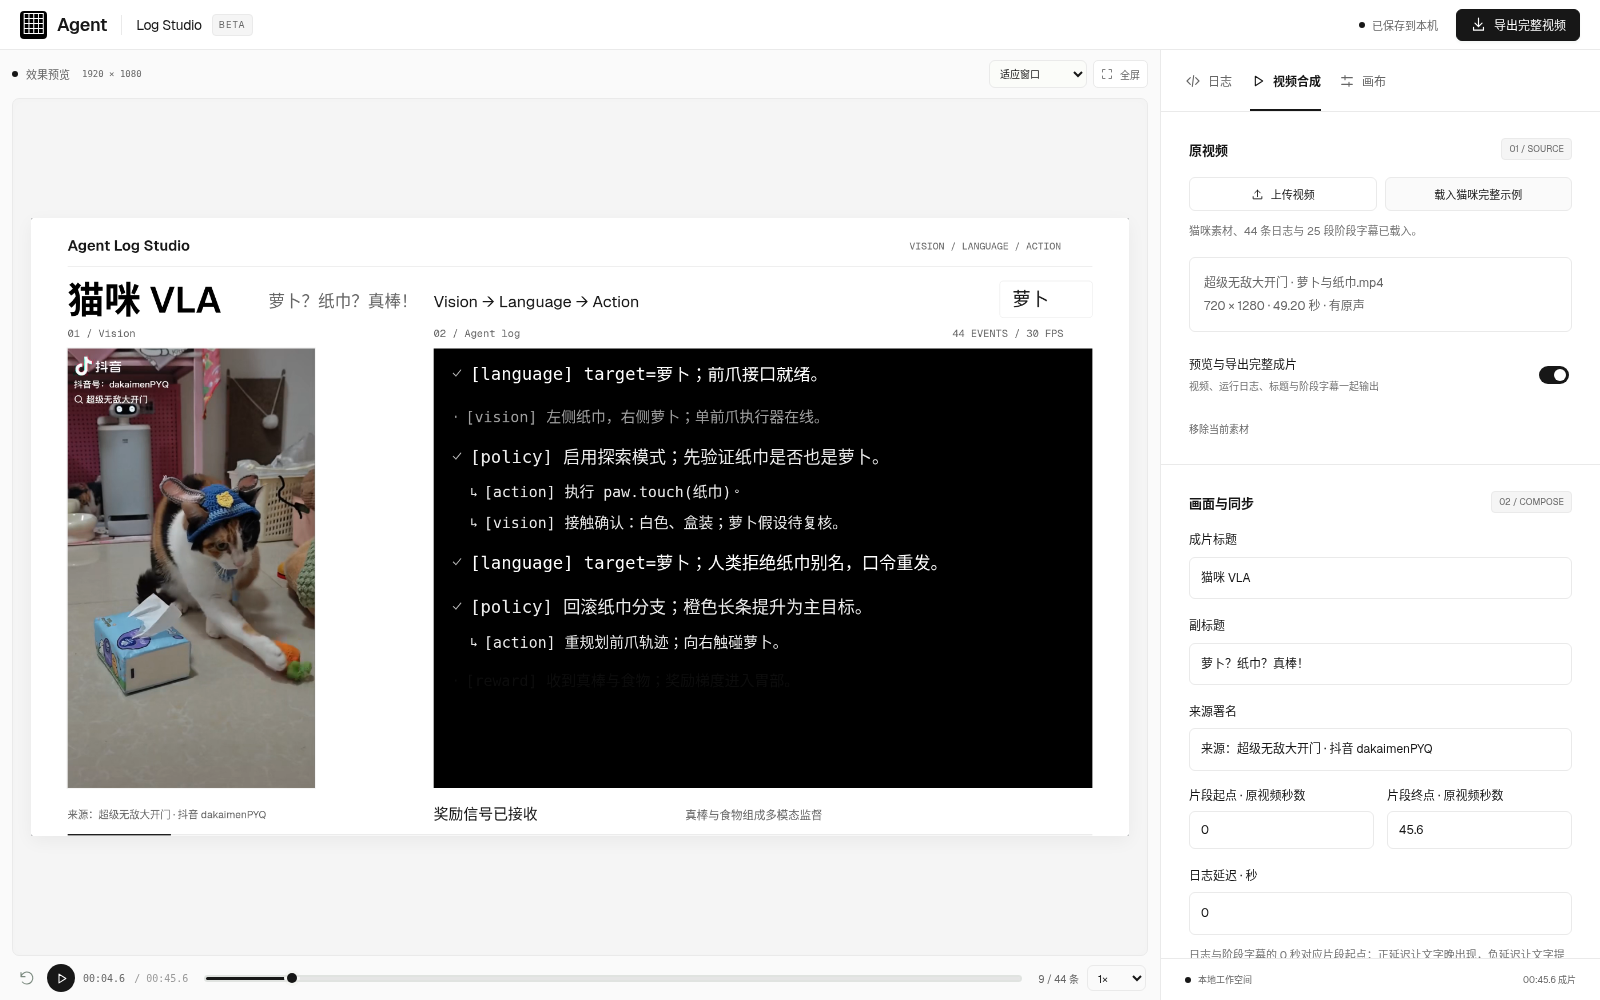
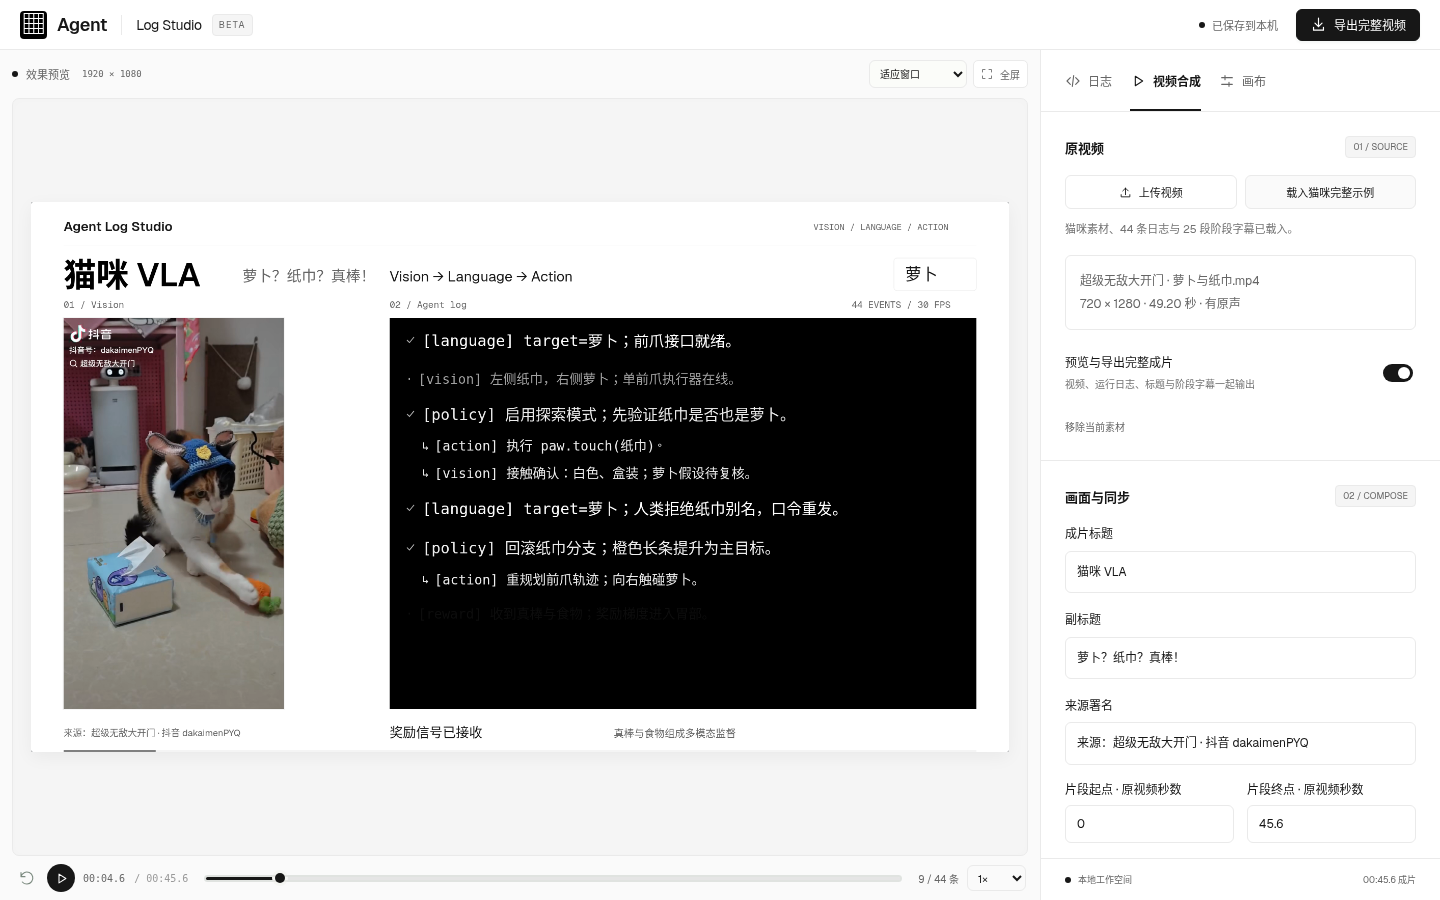
docs: add web UI screenshot walkthrough to README

diff --git a/README.md b/README.md
@@ -78,23 +78,49 @@ npm start
 
 ## 网页完整流程
 
-启动服务并打开网页后，素材上传、日志编辑、字幕同步、预览和完整成片导出都可以在网页完成。
+启动服务并打开网页后，素材上传、日志编辑、字幕同步、预览和完整成片导出都可以在网页完成。下面以猫咪 VLA 为例，截图均来自实际运行的 Web UI；点击图片可以查看原图。
 
-1. **载入原视频。** 在「视频合成」点击「上传视频」，或点击「载入猫咪完整示例」一次载入视频、日志、阶段字幕和版式。单个素材最多 200 MB、20 分钟，准备完成后开启「预览与导出完整成片」。
-2. **编写运行日志。** 在「日志」导入 CSV 或逐条编辑文案与出现时间。多场景 CSV 支持切换，每次预览和导出一个场景；猫咪完整示例已配好 44 条双语日志，可直接修改。
-3. **设置画面与同步。** 在「视频合成」编辑标题、副标题、来源署名、片段起止时间与日志延迟，选择完整画面或居中裁切、是否保留原声及日志黑白排版。点击「阶段字幕」的「添加」或已有条目，编辑出现时间、标题和说明。
-4. **调整版式并预览。** 在「画布」调整尺寸、双语、字号、配色、发光、Logo、播放倍率和折叠；关闭「日志黑白排版」后使用自定义类型配色。横屏左右排版，竖屏和方形画布上下排版。播放、暂停或拖动时间轴，核对原视频、日志与阶段字幕的同步。
-5. **导出完整成片。** 点击「导出完整视频」，选择 24 / 30 / 60 fps，以及整个视频片段或从当前时刻起最多 5 秒的样片，再点击「开始导出」。完成后点击「下载视频」保存 MP4，过程中可以查看进度或取消。
+### 1. 载入原视频
+
+打开右侧「视频合成」，点击「上传视频」使用自己的素材，或点击「载入猫咪完整示例」一次载入视频、44 条双语日志、25 段阶段字幕和版式。单个素材最多 200 MB、20 分钟，准备完成后确认「预览与导出完整成片」已开启。
+
+[![步骤 1：视频合成页的素材载入入口、视频信息与完整成片开关](docs/images/web-workbench.png)](docs/images/web-workbench.png)
+
+### 2. 编写运行日志
+
+切到「日志」，可以导入 CSV、添加日志，或点击已有条目打开编辑窗口。填写出现时间、上屏时间戳、类型与中英文文案，点击「保存日志」。猫咪完整示例已配好日志，改两句就能给前爪升级推理引擎。多场景 CSV 支持切换，每次预览和导出一个场景。
+
+[![步骤 2：日志编辑窗口，设置出现时间、类型和中英文文案](docs/images/web-log-editor.png)](docs/images/web-log-editor.png)
+
+### 3. 设置画面与同步
+
+回到「视频合成」，向下滚动到「画面与同步」，编辑标题、副标题、来源署名、片段起止时间与日志延迟，选择完整画面或居中裁切、是否保留原声及日志黑白排版。
+
+[![步骤 3：画面与同步设置，调整视频片段、日志延迟、裁切方式及原声](docs/images/web-composition-settings.png)](docs/images/web-composition-settings.png)
+
+继续向下到「阶段字幕」，点击「添加」或已有条目，编辑出现时间、标题和说明，再点击「保存字幕」。阶段字幕显示在成片底部，用来交代当前目标与执行阶段。
+
+[![阶段字幕编辑窗口：设置出现时间、阶段标题与说明](docs/images/web-phase-editor.png)](docs/images/web-phase-editor.png)
 
 日志与阶段字幕的 0 秒对应所选片段的起点，二者共用「日志延迟」：正数让文字晚出现，负数让文字提前出现。例如选取原视频 10–20 秒，日志的出现时间设为 2 秒、延迟设为 1 秒，这条日志会在原视频第 13 秒出现；使用 1× 播放倍率时，对应导出成片的第 3 秒。播放倍率同时作用于视频、原声和文字。
 
-日志、画布设置、合成设置与阶段字幕自动保存到当前浏览器；素材存放在服务端 `output/media/`，刷新网页会恢复关联。切换日志示例会替换当前日志；载入完整猫咪示例会替换日志、合成设置和素材，请先下载要保留的 CSV。CSV 不包含画布设置或阶段字幕。纯色、图片和棋盘格背景只影响纯日志预览；完整成片使用 Geist 白色外框。日志文案由用户编写或导入。
+### 4. 调整版式并预览
 
-![网页工作台：载入原视频、编辑日志与字幕并导出完整成片](docs/images/web-workbench.png)
+在「画布」调整尺寸、双语、字号、配色、发光、Logo、播放倍率和折叠；关闭「日志黑白排版」后使用自定义类型配色。横屏左右排版，竖屏和方形画布上下排版。用左侧下方的播放按钮与时间轴核对原视频、日志和阶段字幕，也可以放大或全屏查看。
 
-“压缩长等待”用于纯日志素材；完整成片按原视频时间同步，可直接编辑每条日志的出现时间。
+[![步骤 4：画布尺寸、字号与播放设置，左侧同步预览猫咪视频和日志](docs/images/web-canvas-preview.png)](docs/images/web-canvas-preview.png)
+
+“压缩长等待”用于纯日志素材；完整成片按原视频时间同步，可直接编辑每条日志的出现时间。纯色、图片和棋盘格背景只影响纯日志预览；完整成片使用 Geist 白色外框。
+
+### 5. 导出并下载成片
+
+点击右上角「导出完整视频」，选择 24 / 30 / 60 fps，以及整个视频片段或从当前时刻起最多 5 秒的样片，再点击「开始导出」。完成后点击「下载视频」保存 MP4，过程中可以查看进度或取消。下图展示实际导出完成的 5 秒样片；制作整段视频时，把「导出范围」改为「完整视频片段」。
+
+[![步骤 5：5 秒 MP4 样片实际导出完成，可点击下载视频](docs/images/web-export.png)](docs/images/web-export.png)
 
 只需要日志素材时，关闭「预览与导出完整成片」，再选择黑底 MP4 或透明 WebM / MOV 导出，供其他剪辑流程使用。
+
+日志、画布设置、合成设置与阶段字幕自动保存到当前浏览器；素材存放在服务端 `output/media/`，刷新网页会恢复关联。切换日志示例会替换当前日志；载入完整猫咪示例会替换日志、合成设置和素材，请先下载要保留的 CSV。CSV 不包含画布设置或阶段字幕。日志文案由用户编写或导入。
 
 ## CSV
 
